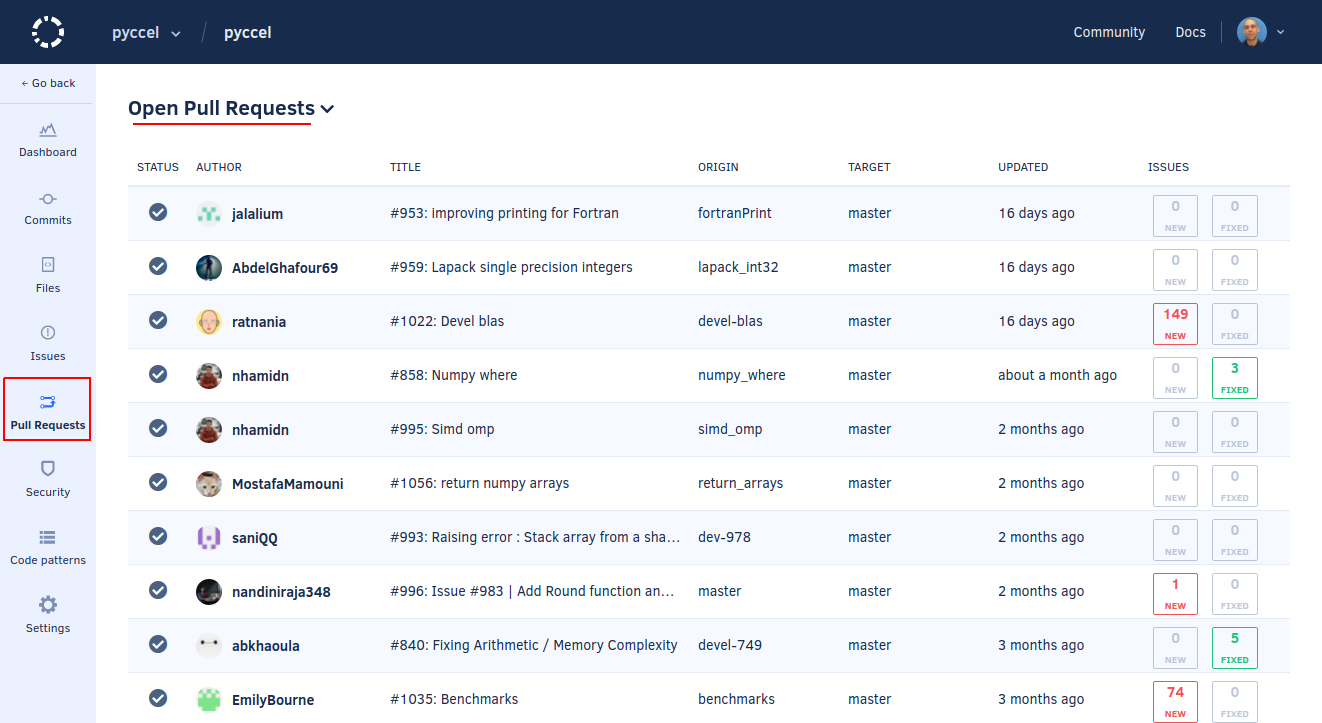
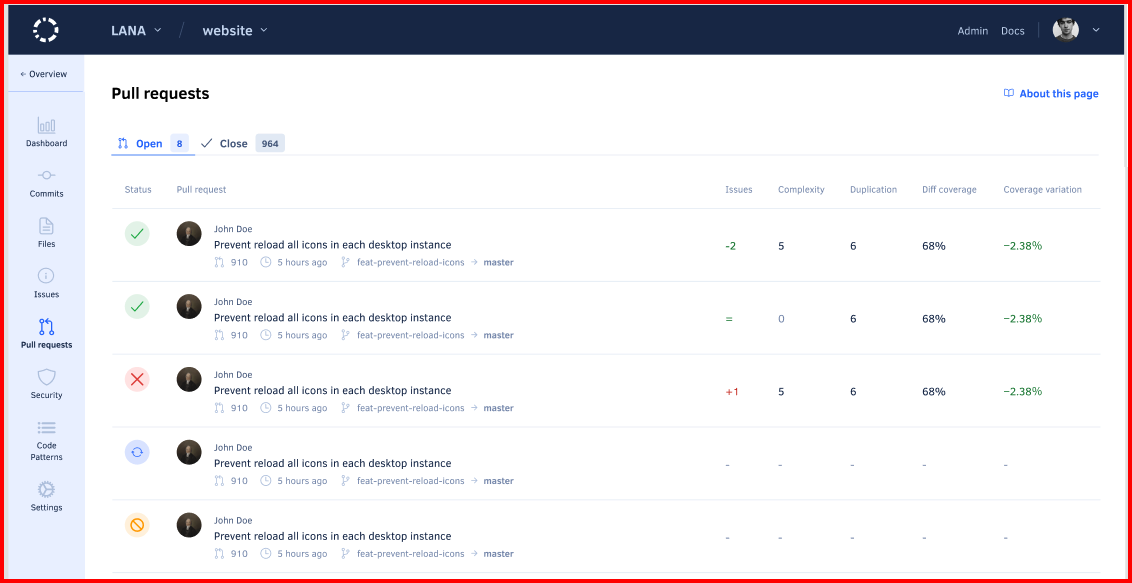
feat: Update content related to Pull requests page migration. Add placeholder for the screenshot.

diff --git a/docs/repositories/pull-requests.md b/docs/repositories/pull-requests.md
@@ -5,9 +5,9 @@ file_name: "pull-requests"
 
 # Quality Pull Requests page
 
-The **Quality Pull Requests page** displays an overview of the pull requests in your repository, such as the analysis status and the number of new and fixed issues for each pull request. This allows you to monitor the code quality of the work in progress in your repository.
+The **Quality Pull Requests page** displays an overview of the pull requests in your repository, such as the analysis status and the code quality metrics for each pull request. This allows you to monitor the code quality of the work in progress in your repository.
 
-By default, the page lists open pull requests but you can use the drop-down list at the top of the page to display the closed pull requests.
+By default, the page lists open pull requests but you can click the **Closed** tab at the top of the list to display the closed pull requests.
 
 ![Pull Requests page](images/pull-requests.png)
 
